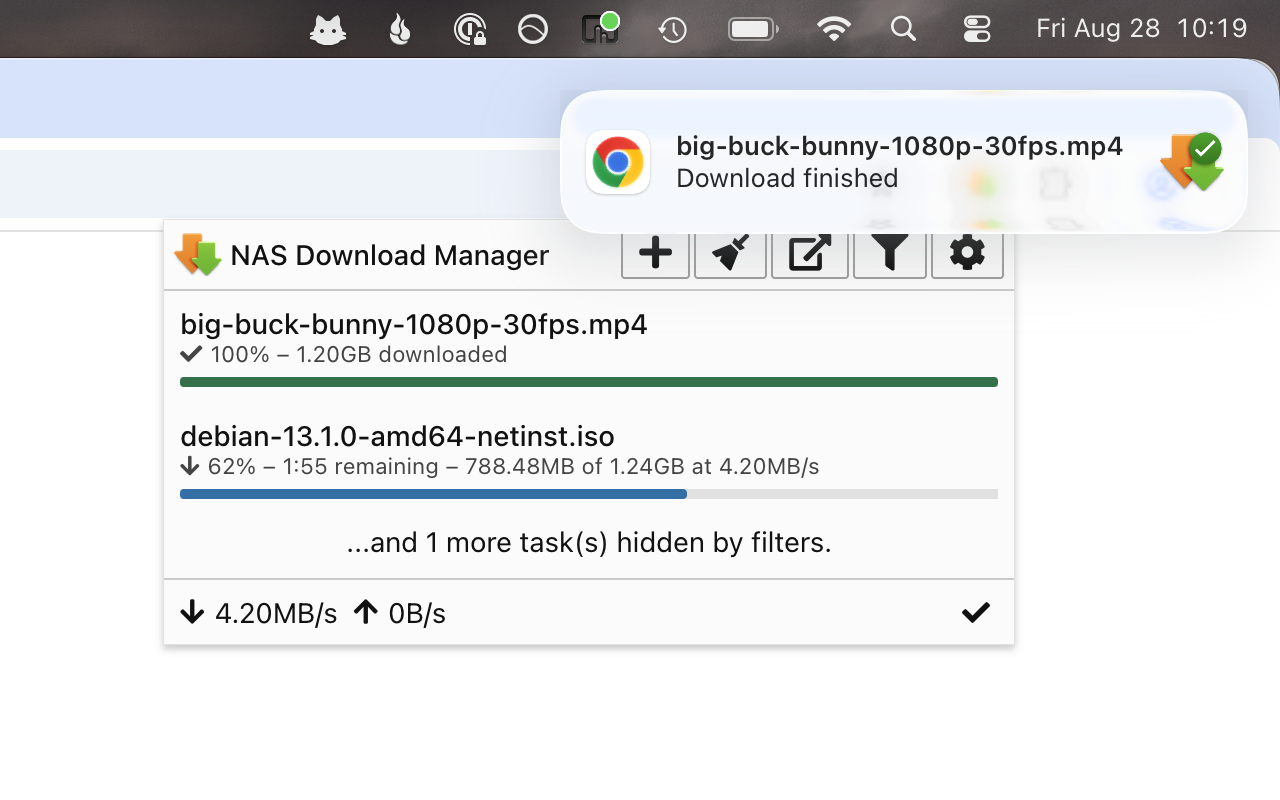
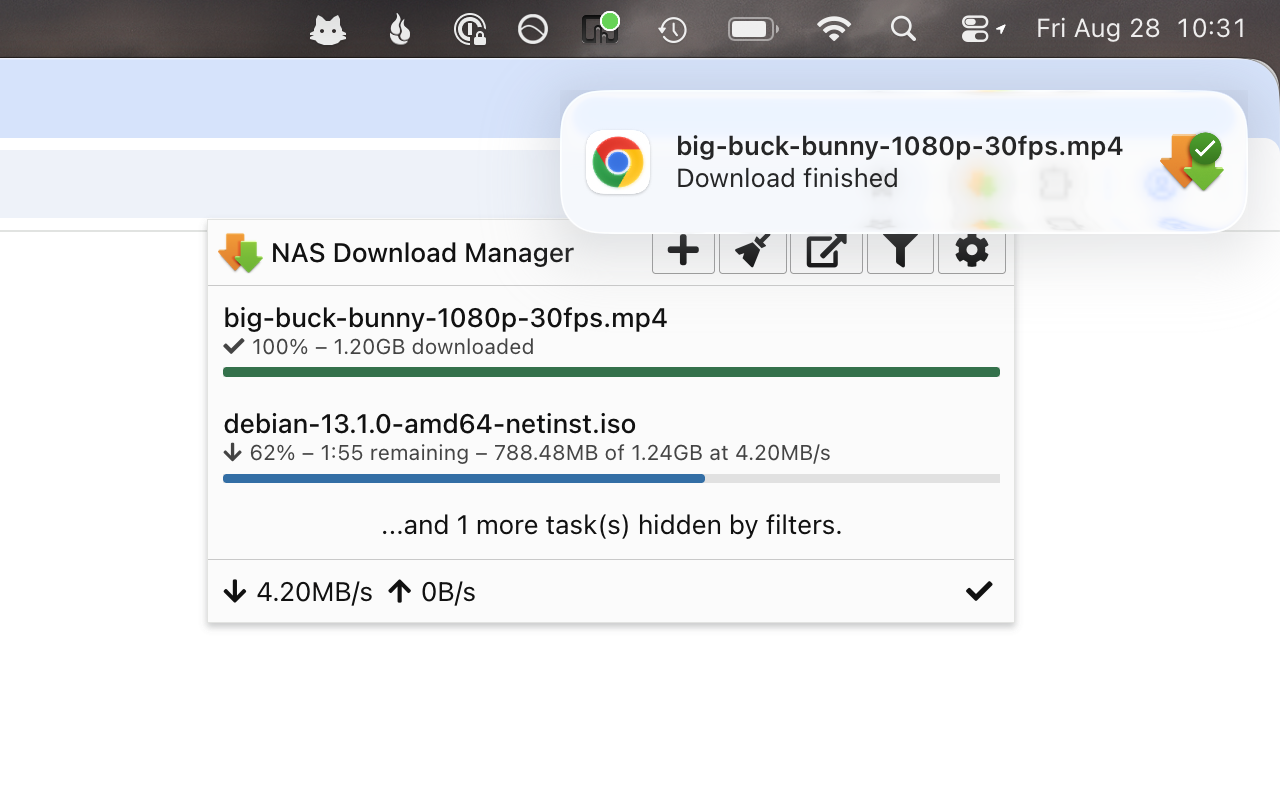
Rescale and lie a little to fit everything into the list.

diff --git a/screenshots/mock/fixtures.ts b/screenshots/mock/fixtures.ts
@@ -83,7 +83,7 @@ const GIGABYTE = 1024 * 1024 * 1024;
 const MEGABYTE = 1024 * 1024;
 
 // Ordered so that a prefix of it is a whole scenario. The errored task comes second, which is what
-// puts exactly one task behind the "N more hidden" row in the two small scenarios.
+// puts exactly one task behind the "N more hidden" row in everything but the single-task scenario.
 const TASKS: DownloadStationTask[] = [
   task({
     id: "1",
@@ -170,7 +170,8 @@ export interface Scenario {
 // Indexed by the number key that selects them, shortest first.
 export const SCENARIOS: Scenario[] = [
   { name: "no tasks", state: { tasks: [], ...FETCHED_JUST_NOW } },
-  { name: "2 tasks", state: { tasks: TASKS.slice(0, 2), ...FETCHED_JUST_NOW } },
+  // One task and nothing hidden, so the filter panel fits the frame with a task list under it.
+  { name: "1 task", state: { tasks: TASKS.slice(0, 1), ...FETCHED_JUST_NOW } },
   { name: "3 tasks", state: { tasks: TASKS.slice(0, 3), ...FETCHED_JUST_NOW } },
   { name: "8 tasks", state: { tasks: TASKS, ...FETCHED_JUST_NOW } },
   { name: "login required", state: { taskFetchFailureReason: "login-required" } },

diff --git a/screenshots/mock/popup.html b/screenshots/mock/popup.html
@@ -15,12 +15,23 @@
     />
 
     <style>
+      /* The last few percent of height the filtering shot needs to fit the frame. */
+      html {
+        zoom: 0.95;
+      }
+
       /* The add-download overlay reserves 400px so the blurred task list behind it has room, and the
          directory picker stretches to fill whatever is left. The canned list is five entries, so the
          advanced-add shot comes out mostly empty. !important because the rule it overrides is more
          specific than this one. */
       .popup-body.with-foreground {
         min-height: 280px !important;
+      }
+
+      /* The filter panel plus a task list is taller than the 800px frame, and the heading is the
+         only part of it that costs height without showing a feature. */
+      .display-settings .title {
+        display: none;
       }
     </style>
   </head>

diff --git a/screenshots/README.md b/screenshots/README.md
@@ -33,7 +33,7 @@ focus, so typing a URL into the add-download form is safe.
 | Key | State                                              |
 | --- | -------------------------------------------------- |
 | `0` | No tasks                                           |
-| `1` | Two tasks, one of them behind the errored filter   |
+| `1` | One task, nothing hidden                           |
 | `2` | Three tasks, one of them behind the errored filter |
 | `3` | Eight tasks                                        |
 | `4` | Login required                                     |
@@ -64,17 +64,22 @@ captured image's width, so the window can be any size; only the vertical one is 
 it is per-browser because Chrome's tab strip is taller than Firefox's. `CROP=0` skips the crop, which
 is how you capture a full window to measure against.
 
-`mock/popup.html` drops the 400px `min-height` the add-download overlay reserves for the blurred task
-list behind it, which is what otherwise stretches the directory picker and leaves the advanced-add
-shot mostly empty. The crop is anchored to the window rather than to the popup, so changing the
-popup's own size does not mean re-measuring it.
+Nothing is ever scaled: the frame is cut out of the capture at native resolution. Fitting the popup
+into it is the mock's job instead, in `mock/popup.html`. It drops the 400px `min-height` the
+add-download overlay reserves for the blurred task list behind it, which otherwise stretches the
+directory picker and leaves the advanced-add shot mostly empty; hides the filter panel's "Task
+Display Settings" heading, worth about 110px and naming the panel rather than showing a feature; and
+zooms to 0.95, which is the last few percent the filtering shot needs. That zoom is the dial to turn
+if a view outgrows the frame again. The crop is anchored to the window rather than to the popup, so
+changing the popup's own size does not mean re-measuring it.
 
 Neither the window's size nor its position affects these shots. The mock maximizes its own window on
 install via `mock/window.ts`, and `w` in the popup re-maximizes it; that is for comfort and for
 keeping the window clear of the screen edges, where a capture can come back clipped. Maximized, not
 fullscreen — fullscreen has no window shadow, and the crop measures in from it.
 
-Three shots per browser, all from scenario `2`:
+Three shots per browser. `filtering` comes from scenario `1`, whose single task is what lets the
+panel and a task list share the frame; the other two come from `2`:
 
 | Name           | How                                   |
 | -------------- | ------------------------------------- |
